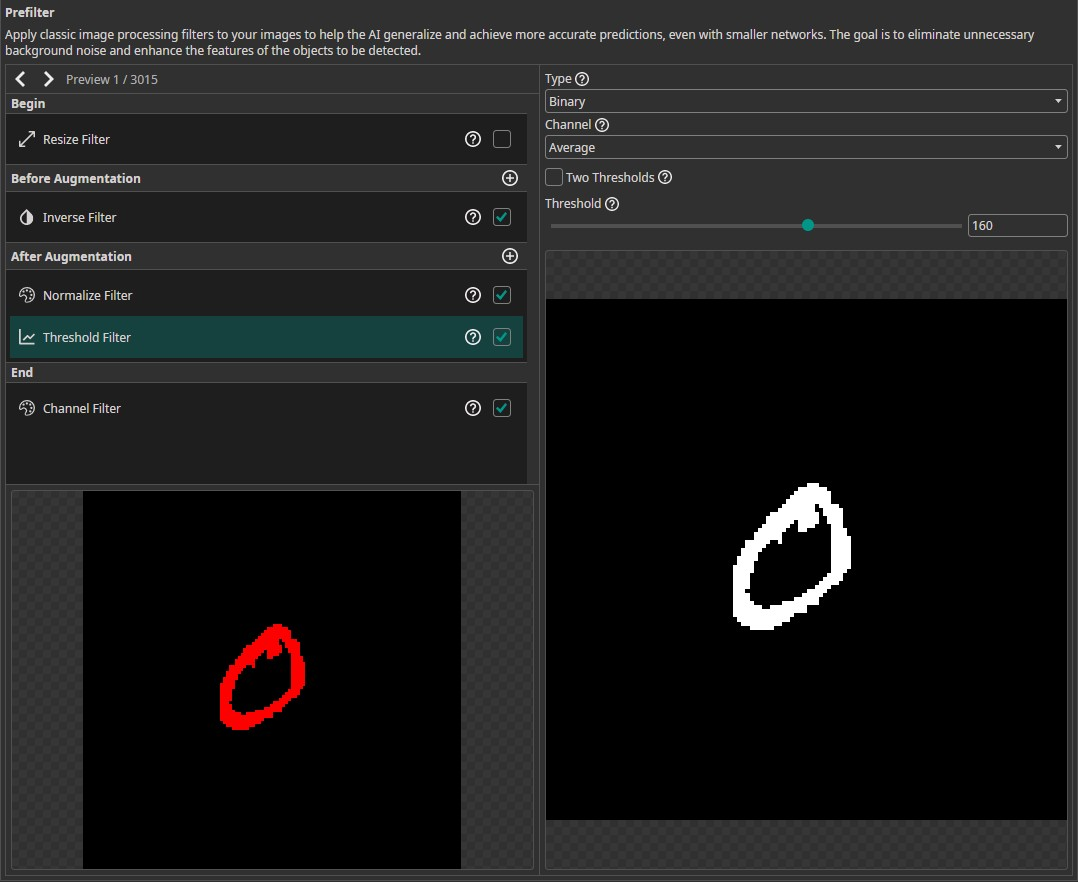
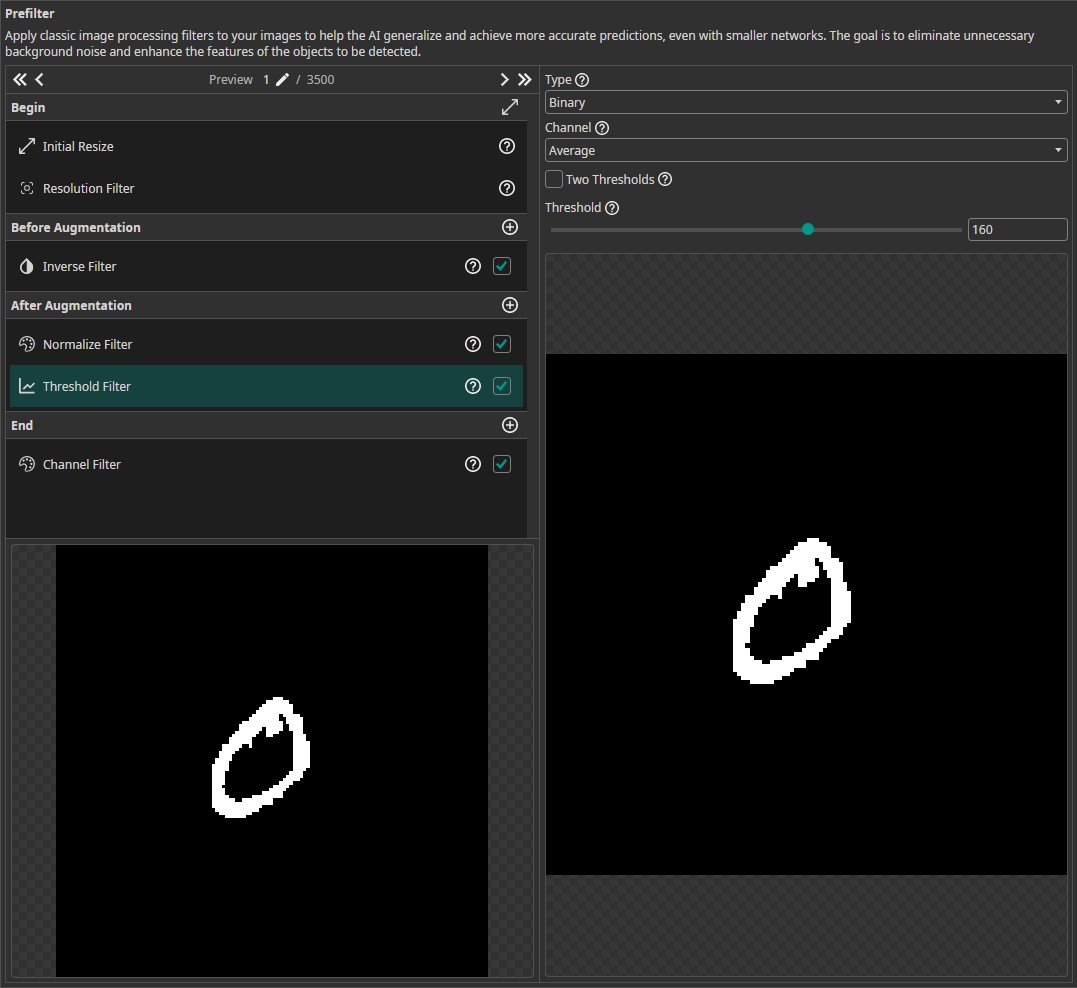
Updates nist demo

diff --git a/docs/one-ai/11-handwritten-digits-demo.md b/docs/one-ai/11-handwritten-digits-demo.md
@@ -6,7 +6,7 @@ sidebar_label: Demo - Handwritten Digits
 # Handwritten Digit Classification Demo
 
 ## About this Demo
-This demo showcases the usage of OneWare Studio and the OneAI Extension for a demo case. If you are unfamiliar with the OneAI Extension, we recommend to first take a look at our guide [Getting Started with One AI for Object Detection](/docs/one-ai/01-get-started.md). We also recommend to read the [Potato Chip Classification Demo](/docs/one-ai/10-potato-chip-demo.md), since it goes into more detail than this demo.
+This demo showcases the usage of OneWare Studio and the OneAI Extension for a demo case. If you are unfamiliar with the OneAI Extension, we recommend to first take a look at our guide [Getting Started with One AI](/docs/one-ai/01-get-started.md). We also recommend to read the [Potato Chip Classification Demo](/docs/one-ai/10-potato-chip-demo.md), since it goes into more detail than this demo.
 
 ## Dataset Overview
 The dataset for this demo can be downloaded [here](https://github.com/one-ware/OneAI_demo_datasets/blob/main/datasets/nist_sd19_subset_sorted.zip). It is a subset of the [NIST Special Database 19](https://www.nist.gov/srd/nist-special-database-19) and contains images of handwritten digits. The training set contains 3000 images, 300 for each digit, while the test set contains 500 images.
@@ -20,30 +20,27 @@ The goal of this demo is to create an AI model that is able to recognize handwri
 During this demo, we will pretend that we want to train a model for an Altera™ Max® 10 16K FPGA to show the workflow and abilities of ONE AI, although the webcam demonstration will run on the CPU of your computer.
 
 ## Setting up the Project
-The setup process is similar to the [Potato Chip Demo](/docs/one-ai/10-potato-chip-demo.md#setting-up-the-project-and-loading-the-data). First, we create a new project and a new AI Generator. Then we open the project folder in a file manager to copy the train and test data. Like before, we change the **Mode** to **Classification** and use an auto-generated validation split. Because our dataset contains a separate test set, we set both **Train Image Percentage** and **Validation Image Percentage** to **0%**.
+The setup process is similar to the [Potato Chip Demo](/docs/one-ai/10-potato-chip-demo.md#setting-up-the-project-and-loading-the-data). First, we create a new project and a new AI Generator. Then we use the dataset import to load dataset. Since we are working on a classification problem, we set the format for the import to **Classification** and the annotation **Mode** to **Classes**. Like before, we use an auto-generated validation split, which is enabled by default. Because our dataset contains a separate test set, we set both **Train Image Percentage** and **Validation Image Percentage** to **0%**.
 
-Since we want to run the model in OneWare Studio later on, we need to assign names to the labels. Otherwise, every prediction will just show *"Undefined Label"*. To do so, we go to the **Labels** tab, right click the label we want to rename and click on **Rename**. The IDs of the annotated labels match the numbers that are visible in the images. The exception is the number zero, which has the ID 10 since the ID 0 is reserved for the background.
+We can verify that everything was loaded correctly by checking the annotations of our train and test images.
 
-We can verify that everything was set up correctly by checking the annotations of our train and test images.
-
-![loaded_dataset](/img/ai/one_ai_plugin/demos/handwritten-digits/nist_sd19_loaded_dataset.jpg)
+![loaded_dataset](/img/ai/one_ai_plugin/demos/handwritten-digits/nist_sd19_loaded_dataset.png)
 
 ## Filters and Augmentations
-The next step is to select the filters and augmentations that we want to use. Since the size of the images is only 128x128, we don't require a **Resize Filter**. Instead, we apply a few other filters that will help our model with classifying the images. First, we use an **Invert Filter** that is applied before we augment the images. This filter converts the black numbers on a white background to white numbers on a black background. Some of the augmentations, like the **Rotate Augmentation**, fill missing areas with black pixels, so by using the **Invert Filter**, the background matches the padded areas.
+The next step is to select the filters and augmentations that we want to use. All images have the same size, so we don't need to change the settings of the **Initial Resize** and since the size of the images is only 128x128, we don't need to reduce it with the **Resolution Filter**. Instead, we apply a few other filters that will help our model with classifying the images. First, we use an **Inverse Filter** that is applied before we augment the images. This filter converts the black numbers on a white background to white numbers on a black background. Some of the augmentations, like the **Rotate Augmentation**, fill missing areas with black pixels, so by using the **Inverse Filter**, the background matches the padded areas.
 
-In the **After Augmentation** section, we add a **Normalize Filter**. This will rescale the brightness values of the image and thus increase the robustness against lighting variations. Remember to activate the check box in the filter list as well as the box in the filter itself.
-
+In the **After Augmentation** section, we add a **Normalize Filter**. This will rescale the brightness values of the image and thus increase the robustness against lighting variations. Remember to activate the check box in the filter list as well as the box in the filter itself.  
 Next, we add a **Threshold Filter**. To achieve good results on new camera images, we increase the **Threshold** to **160**. The other settings are left at their default values to create a **Binary** image based on the **Average** of all channels. This means that the resulting image contains only the values 0 and 255, which simplifies the classification task for our model. Additionally, this step filters out noise and lighting variations. Since the **Threshold Filter** reduces the images to two grayscale values, we don't need three color channels. We can remove the unnecessary channels by activating the **Channel Filter** in the **End** section and **disabling any two channel**.
 
 ![filters](/img/ai/one_ai_plugin/demos/handwritten-digits/nist_sd19_filters.jpg)
 
 In addition to those filters, we use the following augmentations:
 - **Move Augmentation**: We set the amount of shift to **±20%** in both directions to increase the model's robustness against variations in the position of the numbers.
-- **Rotate Augmentation**: Since numbers have a clearly defined up direction, we need a lot less rotation than in the potato chip demo. We still want to have some robustness against rotations, so we set the **rotation** range to **±20°**.
+- **Rotate Augmentation**: Since numbers have a clearly defined up direction, we need a lot less rotation than in the potato chip demo. We still want to have some robustness against rotations, so we set the **Rotation** range to **±20°**.
 - **Flip Augmentation**: We **turn off the flip augmentation**, since we aren't going to encounter mirrored numbers in our application.
 - **Resize Augmentation**: Since the goal of this demo is to run the model on a webcam, our model needs to be quite robust against size variations. This is especially true for numbers that are smaller than those in the training data, because the numbers in the webcam images are likely to be smaller as well. We thus set the size augmentation from **40% to 125%** in both dimensions.
-- **Color Augmentation**: To make the model more robust against lighting variations, we add a color augmentation. We set the **brightness** to **(-30, 30)**, the **contrast** to **(80, 120)** and leave the **saturation**, **hue** and **gamma** at their **default values**.
-- **Frequency Augmentation**: We add a frequency augmentation, to simulate images that are out of focus. Thus, we only use a **Low Pass Filter** and set its **sigma** values to **(0, 1.5)**.
+- **Color Augmentation**: To make the model more robust against lighting variations, we add a color augmentation. We set the **Brightness** to **(-30, 30)**, the **Contrast** to **(80, 120)** and leave the **Saturation**, **Hue** and **Gamma** at their **default values**.
+- **Frequency Augmentation**: We add a frequency augmentation, to simulate images that are out of focus. The **Sigma** values are set to **(0, 1.5)**.
 - **Noise Augmentation**: Finally, we add a noise augmentation to increase the robustness against camera noise. This is especially useful for this dataset, because it adds some variation to the otherwise smooth background. We set the values to **(0, 10)**.
 
 ![augmentations](/img/ai/one_ai_plugin/demos/handwritten-digits/nist_sd19_augmentations.jpg)
@@ -53,16 +50,18 @@ You might wonder that some of our filters undo the effects of our augmentations.
 ## Model Settings
 After having set up the data processing pipeline, we configure the model settings. First, we need to specify the **Classification Type**. We want to predict one of the numbers for each image, so we set it to **One Class per Image**. For the tests with the webcam, it would be nice if we were able to detect multiple numbers in the same image, but since the training data doesn't contain any images with more than one number, our model won't be able to make these kind of predictions. We set the **Minimum FPS** to **60** and the **Maximum Memory Usage** as well as the **Maximum Multiplier Usage** to **90%**. The **FPGA Clock Speed** is left at **50 MHz**, since we are going to create a model for the Altera™ Max® 10 16K.
 
-Next, we provide some additional information on the characteristics of the input data. First, we estimate the area that the model needs to analyze to make a decision for the smallest and the largest numbers. We set the surrounding area to **(25, 25)** for small objects and to **(90, 90)** for large objects.
+Next, we provide some additional information on the characteristics of the input data. First, we estimate the area that the model needs to analyze to make a decision for the smallest and the largest numbers. We set the surrounding area to **(25, 25)** for small objects and to **(70, 70)** for large objects.
 
-Then, we estimate the variance of numbers from the same class. We observe quite a few differences in writing styles like the size, the angle or the line width, so we set the **Same Class Difference** to **40%**. The next setting describes the variation of background. As there is no variation in the white background, we set the **Background Difference** to **0%**. We set the **Detect Simplicity** to **90%**, because the task isn't that complicated. Next, we need to specify the estimated sizes for small, average and large objects. We set those to **(25, 25)**, **(40, 40)** and **(70, 70)**. Finally we need to tell ONE AI how many image features are relevant for the classification. We set **Average Number of Features for Classification** to **2** and **Maximum Number of Features for Classification** to **4**.
+Then, we estimate the variance of numbers from the same class. We observe quite a few differences in writing styles like the size, the angle or the line width, so we set the **Same Class Difference** to **40%**. The next setting describes the variation of the background. As there is no variation in the white background, we set the **Background Difference** to **0%**. We set the **Detect Simplicity** to **90%**, because the task isn't that complicated. Next, we need to specify the estimated sizes for small, average and large objects. We set those to **(25, 25)**, **(40, 40)** and **(70, 70)**. Finally we need to tell ONE AI how many image features are relevant for the classification. We set **Average Number of Features for Classification** to **2** and **Maximum Number of Features for Classification** to **4**.
+
+The last model setting is the option to organize the classes into **Groups**. This is an advanced setting that isn't necessary for this task, so we leave it at the default. We recommend leaving all classes in the same group unless you are certain that your task benefits from splitting the model into multiple sub-models.
 
 ## Training the Model
 Now, it's time to set up the training configuration for the model. In the **Hardware Settings** tab we select the **Altera™ Max® 10 16K** as the **Used Hardware**.
 
-In the **Training** tab we need to click on **Sync** to synchronize our data and existing model trainings with the ONE WARE servers. After that, we create a new training configuration. For this demo, a **training time** of **10 minutes** is sufficient to fully train the model. We leave the **patience** at the default value of **30%**. Since we want to export the model to an FPGA, we **Enable Quantization Optimization** to increase its performance. We leave the **Percentage** at **30%** to achieve a good trade off between training time and model performance. If we want the best performing model, we need to set it to **100%**, but this will increase the training time. For models that will be exported as floating point models it is best to turn off quantization.
+In the **Training** tab we need to click on **Sync** to synchronize our data and existing model trainings with the ONE WARE servers. After that, we create a new model and click no **Train**. For this demo, a **training time** of **4 minutes** is sufficient to fully train the model. We leave the **patience** at the default value of **100%**. Since we want to export the model to an FPGA, we **Enable Quantization Optimization** to increase its performance. We set the **Percentage** to **25%** so that one minute of our four minute training is used for quantization aware training. Using a percentage around **30%** achieves a good trade off between training time and model performance. If we want the best performing model, we need to set it to **100%**, but this will increase the training time. For models that will be exported as floating point models it is best to turn off quantization. The option **Continue Training** can be used to continue the training of a model that has already been trained. The option **Focus on Images with Objects** is only relevant for object detection tasks, so we leave the box unchecked. If it is unchecked, the existing model will be overwritten. Since we don't have any prior model, this setting is ignored by ONE AI.
 
-Finally, we click on the **Train** button in the top-right corner to start the training. You can monitor the training progress in the **Logs** and **Statistics** tabs.
+Finally, we click on **Start Training**. You can monitor the training progress in the **Logs** and **Statistics** tabs.
 
 ## Model Export
 After the training is completed, we need to export our model. We configured our model to run on an Altera™ Max® 10 16K, but for now we are content with testing its capabilities on a computer. To use the model inside of OneWare Studio's camera tool, we need to export it as an ONNX model. To do so, we click on the **Export** button, which opens a new window with configurations. In the **Export type** drop-down menu, we select ONNX since that is the format we need.
@@ -73,18 +72,18 @@ The last check box allows us to select whether we want to export the last or the
 
 ![model_export](/img/ai/one_ai_plugin/demos/handwritten-digits/nist_sd19_export.jpg)
 
-After the export is finished, we can download the exported ONNX model by clicking on the green arrow. This will save the model in the folder ``[selected_name]/Models``. It will automatically be available to the **Camera Tool** that we use for testing in the next section. You can also download a trained model [here](https://github.com/one-ware/OneAI_demo_datasets/blob/main/models/nist_sd19_sorted/onnx/nist_sd19_sorted.onnx). To use this model, right click on your project folder in OneWare Studio, select **Open in File Manager** and insert the model into the folder ``[selected_name]/Models``. You might need to restart OneWare Studio for the model to show up in the **Camera Tool**.
+After the export is finished, we can download the exported ONNX model by clicking on the green arrow. This will save the model in the folder ``[ai_generator_name]/Models``. It will automatically be available in the **Camera Tool**, which we will use for testing in the next section. You can also download a trained model [here](https://github.com/one-ware/OneAI_demo_datasets/blob/main/models/nist_sd19_sorted/onnx/nist_sd19_sorted.onnx). To use this model, right click on your project folder in OneWare Studio, select **Open in File Manager** and insert the model into the folder ``[ai_generator_name]/Models``. You might need to restart OneWare Studio for the model to show up in the **Camera Tool**.
 
 ![model_download](/img/ai/one_ai_plugin/demos/handwritten-digits/nist_sd19_download.jpg)
 
 ## Testing the Model
-Now it's time to test our trained model. To do so, we go back to the **Dataset** tab and open the **Camera Tool** in the top-right corner. Select your camera in the drop-down menu, then click on the plus icon to add it. Next, we need to change the camera's resolution by clicking on the gear icon and setting the **Width** and **Height** to **128** to match the resolution of our images. Please check whether your camera actually supports a resolution of 128x128. You can do so by going to the **Capture** tab of the **Camera Tool** and recording an image by pressing the camera button followed by the save button. This saves the current camera image to ``[selected_name]/Dataset/Train``. You can check its size by opening it with the Windows App **Photo**, which shows the size on the bottom-left. If it is larger than 128x128, you can draw a region onto the camera preview in the camera settings to crop it. It doesn't matter if the cropped region is slightly larger than 128x128, as long as it's not smaller, because that would introduce a black padding.
+Now it's time to test our trained model. To do so, we click on **AI** in the menu bar and then **Camera Tool**. Select your camera in the drop-down menu, then click on the plus icon to add it. Next, we need to change the camera's resolution by clicking on the gear icon and setting the **Width** and **Height** to **128** to match the resolution of our images. Afterwards, you need to press the **Restart Camera** button to apply the changes. It might happen that your camera doesn't support this specific resolution. You can check this by looking at the **Supported Size** field directly above the **Restart Camera Button**. If it doesn't show **128 x 128** you need to add a crop to the camera image. You can enter the position and size of the crop at the bottom of the settings. You can tune the position by dragging the crop that is shown in the preview. You can also draw the crop directly onto the camera preview but it is a lot harder to select a crop that is exactly **128 x 128** this way.
 
 We can improve the classification accuracy by going to the camera settings and turning the **Brightness** and **Contrast** to their maximum. This results in the paper showing up in a bright white with a deep black number. For some cameras it is important to turn on **Auto Exposure** further down in the settings, because the image would be underexposed otherwise.
 
 ![camera_settings](/img/ai/one_ai_plugin/demos/handwritten-digits/nist_sd19_camera_settings.jpg)
 
-To test our model, we switch to the **Run Model** tab. In the drop-down menu in the top-left corner, we can select our trained model. We also need to select our camera in the top-right corner. Afterwards we click on the play-button on the top-left of the image to run the model. The predicted class will be shown on the bottom-right. You'll get the best results if you write your numbers on a white piece of paper without any markings and use a black pen with a thick line width.
+To test our model, we switch to the **Live Preview** tab. We can select our trained model in the drop-down menu in the top-left corner and the camera in th top-right corner. We also need to set the **Preview Mode** to **Classification**. Afterwards we click on the play-button on the top-left of the image to run the model. The predicted class will be shown on the bottom-right. You'll get the best results if you write your numbers on a white piece of paper without any markings and use a black pen with a thick line width.
 
 ![model_prediction](/img/ai/one_ai_plugin/demos/handwritten-digits/nist_sd19_prediction.jpg)
 
